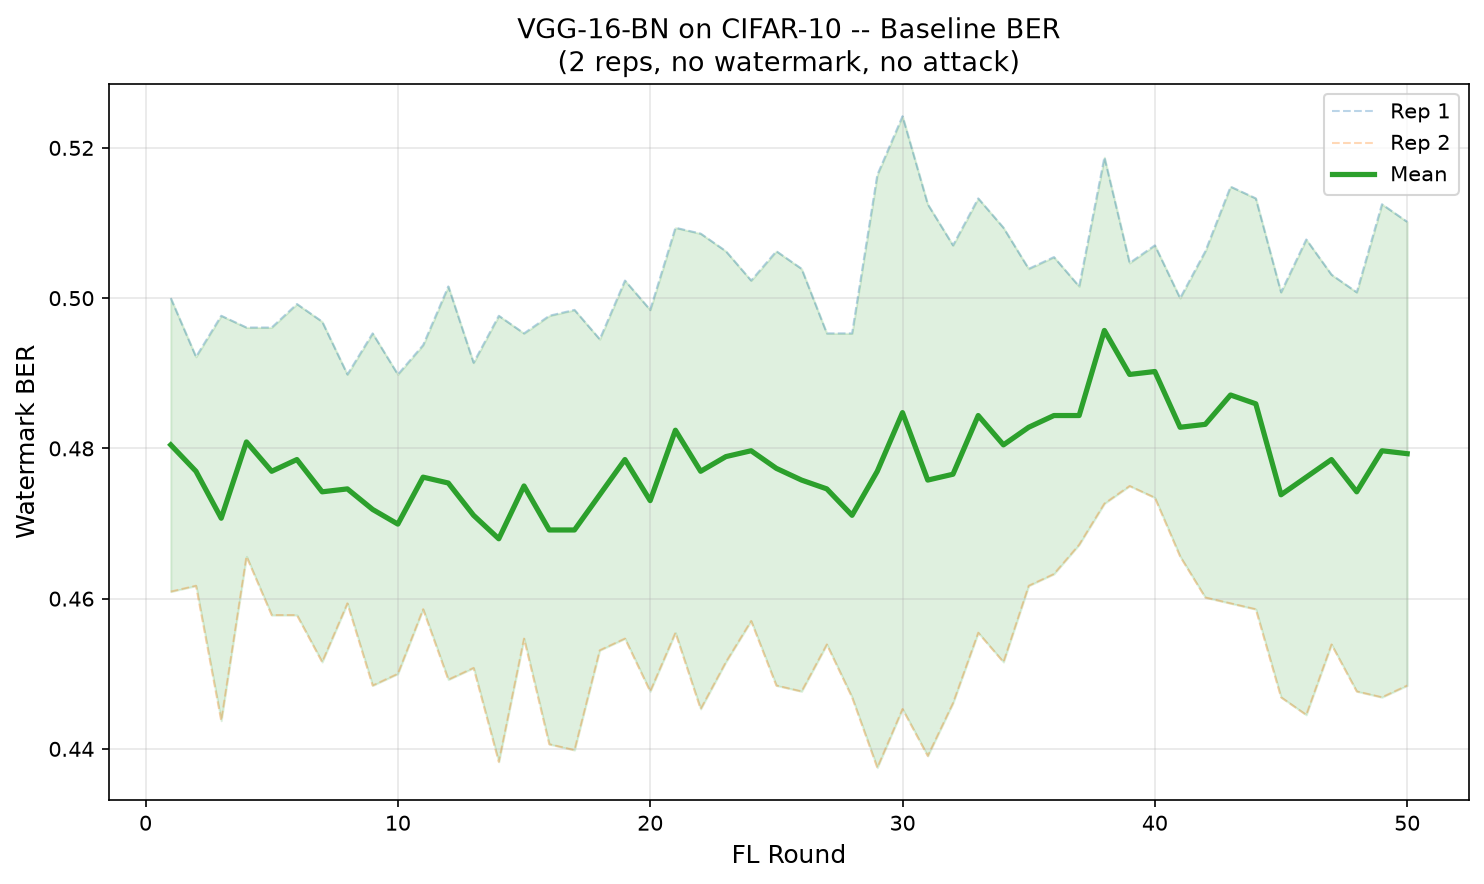
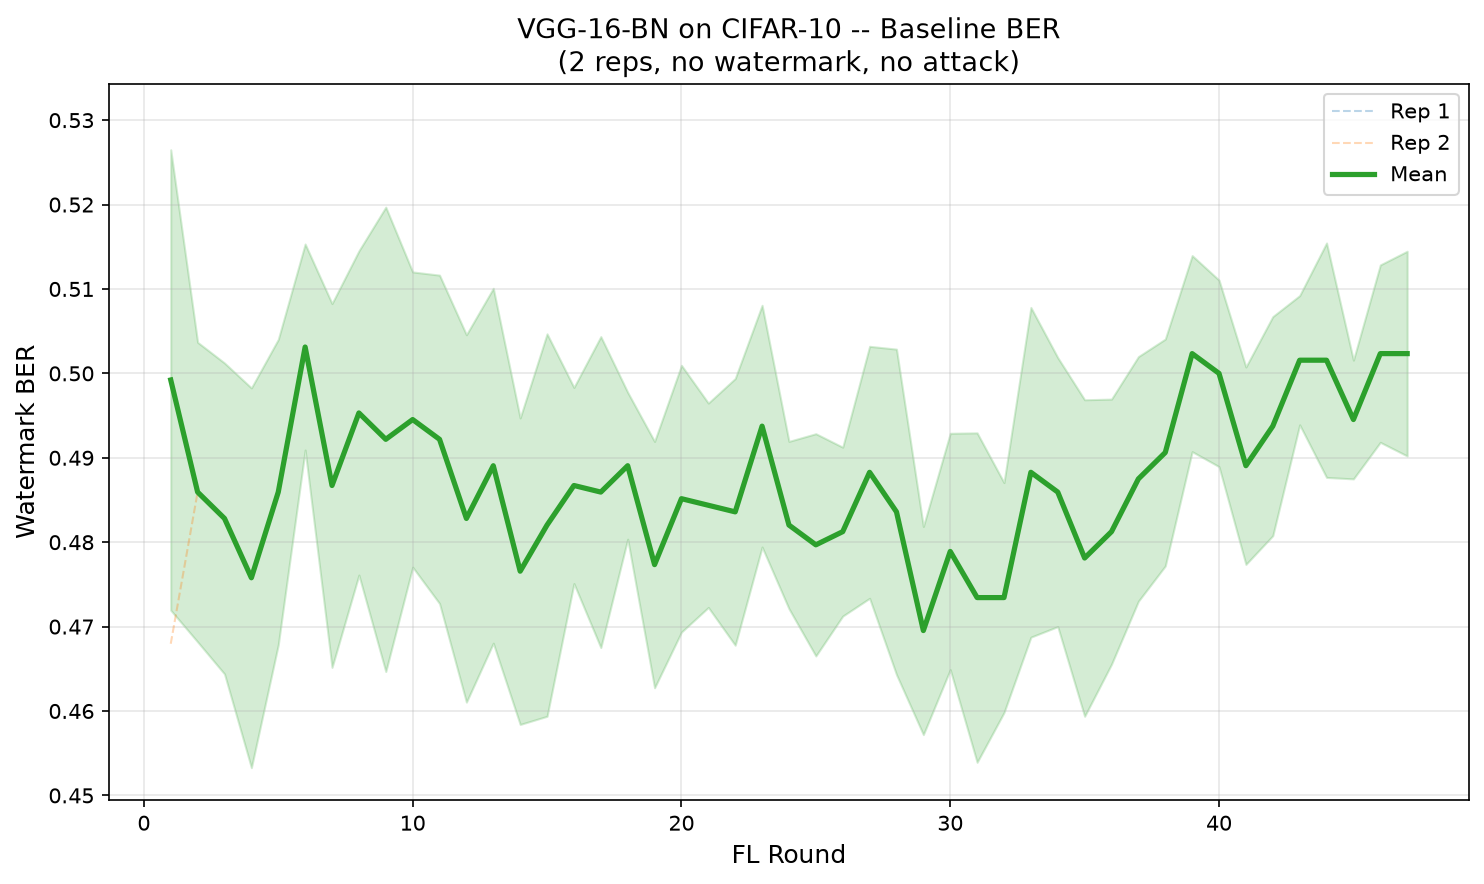
plots: show per-client BER variance (mean ± std across clients per round)

diff --git a/utility scripts/plot_cifar10_vgg16.py b/utility scripts/plot_cifar10_vgg16.py
@@ -69,7 +69,8 @@ def load_train_csv(run_id):
             by_round[int(row["round"])].append(float(row["watermark_ber"]))
     rounds = sorted(by_round)
     bers = [np.mean(by_round[r]) for r in rounds]
-    return rounds, bers
+    stds = [np.std(by_round[r]) for r in rounds]
+    return rounds, bers, stds
 
 
 def load_pretrain_csv(run_id):
@@ -185,21 +186,27 @@ def main():
     # --- BER ---
     if train_ber_data:
         fig, ax = plt.subplots(figsize=(10, 6))
-        min_r = max(d[0][0] for d in train_ber_data)
-        max_r = min(d[0][-1] for d in train_ber_data)
-        common_rounds_ber = list(range(min_r, max_r + 1))
-        ber_matrix = interpolate(common_rounds_ber, train_ber_data)
-        ber_mean = np.nanmean(ber_matrix, axis=0)
-        ber_std = np.nanstd(ber_matrix, axis=0)
+        all_rounds_ber = sorted(set(r for d in train_ber_data for r in d[0]))
+        # For each rep, interpolate mean and std onto common rounds
+        mean_mat, std_mat = [], []
+        for rnds, bers, stds in train_ber_data:
+            rmap_m = dict(zip(rnds, bers))
+            rmap_s = dict(zip(rnds, stds))
+            mean_mat.append([rmap_m.get(r, np.nan) for r in all_rounds_ber])
+            std_mat.append([rmap_s.get(r, np.nan) for r in all_rounds_ber])
+        mean_mat = np.array(mean_mat)
+        std_mat = np.array(std_mat)
+        agg_mean = np.nanmean(mean_mat, axis=0)
+        agg_std = np.nanmean(std_mat, axis=0)
 
-        for i, (rnds, bers) in enumerate(train_ber_data):
+        for i, (rnds, bers, _) in enumerate(train_ber_data):
             ax.plot(rnds, bers, "--", alpha=0.3, linewidth=1,
                     label=f"Rep {i+1}" if i < 5 else None)
 
-        ax.plot(common_rounds_ber, ber_mean, "-", color="C2", linewidth=2.5,
+        ax.plot(all_rounds_ber, agg_mean, "-", color="C2", linewidth=2.5,
                 label="Mean")
-        ax.fill_between(common_rounds_ber, ber_mean - ber_std, ber_mean + ber_std,
-                        color="C2", alpha=0.15)
+        ax.fill_between(all_rounds_ber, agg_mean - agg_std, agg_mean + agg_std,
+                        color="C2", alpha=0.2)
 
         ax.set_xlabel("FL Round", fontsize=12)
         ax.set_ylabel("Watermark BER", fontsize=12)
@@ -219,18 +226,21 @@ def main():
     if pretrain_data:
         fig, axes = plt.subplots(1, 3, figsize=(18, 5))
 
-        epochs_p = pretrain_data[0][0]
         for epochs, tl, wl, wb in pretrain_data:
             axes[0].plot(epochs, tl, "o-", alpha=0.5, markersize=3)
             axes[1].plot(epochs, wl, "o-", alpha=0.5, markersize=3)
             axes[2].plot(epochs, wb, "o-", alpha=0.5, markersize=3)
 
-        task_means = np.mean([d[1] for d in pretrain_data], axis=0)
-        wm_means = np.mean([d[2] for d in pretrain_data], axis=0)
-        ber_means = np.mean([d[3] for d in pretrain_data], axis=0)
-        axes[0].plot(epochs_p, task_means, "o-", color="C0", linewidth=2, label="Mean")
-        axes[1].plot(epochs_p, wm_means, "o-", color="C1", linewidth=2, label="Mean")
-        axes[2].plot(epochs_p, ber_means, "o-", color="C2", linewidth=2, label="Mean")
+        common_epochs = pretrain_data[0][0]
+        ep_map = {0: 1, 1: 2, 2: 3}
+        for idx, (key, col) in enumerate([(1, "C0"), (2, "C1"), (3, "C2")]):
+            mat = []
+            for epochs, *vals in pretrain_data:
+                rmap = dict(zip(epochs, vals[idx]))
+                mat.append([rmap.get(e, np.nan) for e in common_epochs])
+            mat = np.array(mat)
+            mean = np.nanmean(mat, axis=0)
+            axes[idx].plot(common_epochs, mean, "o-", color=col, linewidth=2, label="Mean")
 
         axes[0].set_title("Task Loss")
         axes[1].set_title("Watermark Loss")

diff --git a/utility scripts/plot_cifar100_baselines.py b/utility scripts/plot_cifar100_baselines.py
@@ -37,14 +37,14 @@ def load_server_data(run_id):
 
 
 def load_train_ber(run_id):
-    """Return (rounds, mean_ber_per_round)."""
+    """Return (rounds, mean_ber_per_round, std_ber_per_round)."""
     path = RESULTS_DIR / f"run_{run_id}_train.csv"
     by_round = defaultdict(list)
     with open(path) as f:
         for row in csv.DictReader(f):
             by_round[int(row["round"])].append(float(row["watermark_ber"]))
     rounds = sorted(by_round)
-    return rounds, [np.mean(by_round[r]) for r in rounds]
+    return rounds, [np.mean(by_round[r]) for r in rounds], [np.std(by_round[r]) for r in rounds]
 
 
 def interpolate(common_rounds, rep_data):
@@ -121,22 +121,25 @@ def plot_loss():
 def plot_ber():
     fig, ax = plt.subplots(figsize=(10, 6))
 
-    for runs, color, label in [(WATERMARK_RUNS, "C1", "Watermark (λ=0.01)"),
-                                (BASELINE_RUNS, "C0", "No watermark (λ=0)")]:
+    for runs, color, ls, label in [(WATERMARK_RUNS, "C1", "-", "Watermark (λ=0.01)"),
+                                    (BASELINE_RUNS, "C0", "--", "No watermark (λ=0)")]:
         data = [load_train_ber(rid) for rid in runs]
-        min_r = max(d[0][0] for d in data)
-        max_r = min(d[0][-1] for d in data)
-        cr = list(range(min_r, max_r + 1))
-        mat = interpolate(cr, data)
-        mean = np.nanmean(mat, axis=0)
-        ax.plot(cr, mean, "-" if color == "C1" else "--", color=color, linewidth=2, label=label)
-        if len(runs) > 1:
-            std = np.nanstd(mat, axis=0)
-            ax.fill_between(cr, mean - std, mean + std, color=color, alpha=0.15)
-            for rnds, bers in data:
-                ax.plot(rnds, bers, "--", color=color, alpha=0.3, linewidth=1)
-        else:
-            ax.plot(data[0][0], data[0][1], "--", color=color, alpha=0.4, linewidth=1, label="_nolegend_")
+        all_rounds = sorted(set(r for d in data for r in d[0]))
+        # Interpolate means and stds across common rounds
+        mean_mat = []
+        std_mat = []
+        for rnds, means, stds in data:
+            rmap_m = dict(zip(rnds, means))
+            rmap_s = dict(zip(rnds, stds))
+            mean_mat.append([rmap_m.get(r, np.nan) for r in all_rounds])
+            std_mat.append([rmap_s.get(r, np.nan) for r in all_rounds])
+        mean_mat = np.array(mean_mat)
+        std_mat = np.array(std_mat)
+        agg_mean = np.nanmean(mean_mat, axis=0)
+        agg_std = np.nanmean(std_mat, axis=0)  # average per-client std across reps
+        ax.plot(all_rounds, agg_mean, ls, color=color, linewidth=2, label=label)
+        ax.fill_between(all_rounds, agg_mean - agg_std, agg_mean + agg_std,
+                        color=color, alpha=0.2)
 
     ax.set_xlabel("FL Round", fontsize=12)
     ax.set_ylabel("Watermark BER", fontsize=12)
